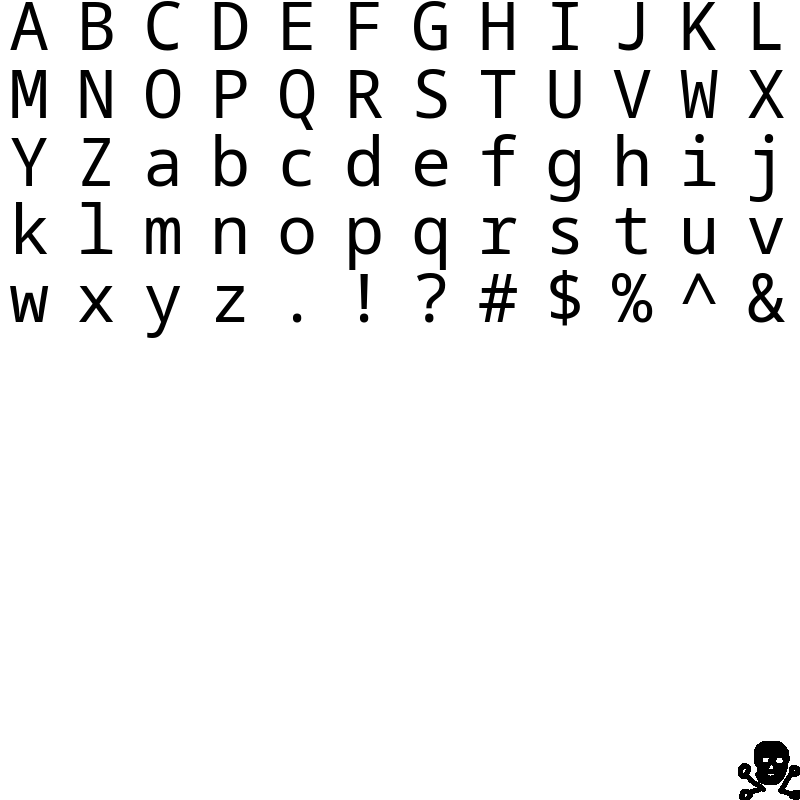
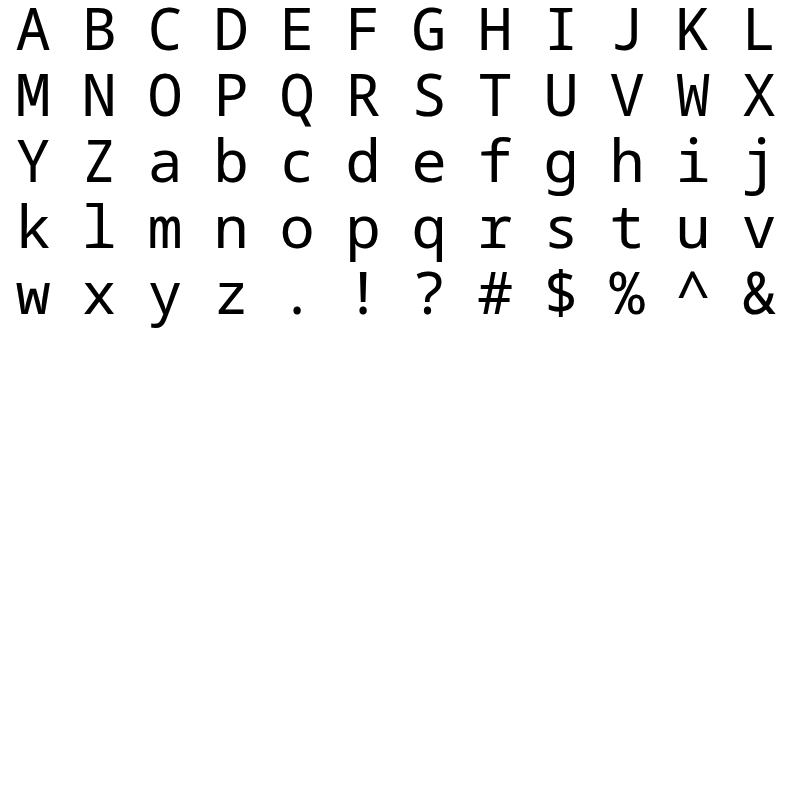
.

diff --git a/2d_game/rework/engine.js b/2d_game/rework/engine.js
@@ -15,6 +15,13 @@ export class Engine{
     atlasTextureBuffer
     atlasTexture;
     textTextures = [];
+    textPositions = [{
+        name: "HelloworldText",
+        position: [0,0],
+        text: "Hello world.",
+        // uniformdata contains data for all letters
+        uniformdata: []
+    },]
 
     rectcount = 0;
 
@@ -40,7 +47,7 @@ export class Engine{
     constructor(canvas){
         this.#canvas = canvas;
         this.#gl = this.#canvas.getContext("webgl2");
-        if(this.#gl == false) alert("Unable to make webgl context");
+        if(this.#gl == false) alert("Unable to make webgl2 context.");
     }
     async #GetFile(URL)
     {
@@ -131,11 +138,11 @@ export class Engine{
         }
     }
     // makes texture itself and binds to texture buffer
-    MakeTexture(){
-        this.tex = this.#gl.createTexture();
+    MakeTexture(x=512,y=512){
+        this.tex == null ? this.tex = this.#gl.createTexture() : {};
         this.#gl.bindTexture(this.#gl.TEXTURE_2D, this.tex);
         this.#gl.texParameteri ( this.#gl.TEXTURE_2D, this.#gl.TEXTURE_MAG_FILTER, this.#gl.NEAREST ) ;
-        this.#gl.texImage2D(this.#gl.TEXTURE_2D, 0, this.#gl.RGBA,1024, 256, 0, this.#gl.RGBA,this.#gl.UNSIGNED_BYTE,
+        this.#gl.texImage2D(this.#gl.TEXTURE_2D, 0, this.#gl.RGBA,x, y, 0, this.#gl.RGBA,this.#gl.UNSIGNED_BYTE,
             null/*new Uint8Array([255, 0, 0, 255,        0, 255, 0, 255,       0, 0, 255, 255,
                             255, 255, 0, 255,      0, 255, 255, 255,     255, 0, 255, 255,
                             128, 255, 0, 255,      255, 128, 0, 255,     0, 255, 128, 255
@@ -143,6 +150,7 @@ export class Engine{
         this.#gl.texParameteri(this.#gl.TEXTURE_2D, this.#gl.TEXTURE_MIN_FILTER, this.#gl.LINEAR);
         this.#gl.texParameteri(this.#gl.TEXTURE_2D, this.#gl.TEXTURE_WRAP_S, this.#gl.CLAMP_TO_EDGE);
         this.#gl.texParameteri(this.#gl.TEXTURE_2D, this.#gl.TEXTURE_WRAP_T, this.#gl.CLAMP_TO_EDGE);
+        this.#gl.bindTexture(this.#gl.TEXTURE_2D, null);
     }
 
     CreateBuffers()
@@ -239,24 +247,58 @@ export class Engine{
         ["\n","Down"]
     ])
     // temporarily just change current text letter
-    // hardcoded size/4, 4 is ratio of texture to not stretch letters
-    // QUESTION: why is singular letter more messed that string of letters?
-    AddText(name = "TextObject", letter = "a", size = 1/6){
+    SetText(x,y, letter = "a", size = 1){
         if(letter.length == 1)
         {
             let texindex = this.textToIndex.get(letter);
             if(texindex == undefined) texindex = [11,11];
 
+            this.MakeTexture(256,256);
             this.textData = [0,0, 0, 
                         ...texindex, 1, 
-                        size/4, size, 0];
+                        size, size, 0];
+            this.textPositions[0] = {
+                name: "Helloworld",
+                position: [x,y],
+                text: letter,
+                size: [256,256],
+                ratio: [1,1],
+                uniformdata: this.textData
+            }
             return;
         }
         else if(letter.length > 1)
         {
+            // Biggest line is width of the whole text, new lines is height of whole text.
+            const ParseData = {
+                newLines: 0,
+                biggestLine: 0,
+                currentLineSize: 0
+            }
+            for(let i = 0; i < letter.length; i++)
+            {
+                const curLetter = letter[i];
+                if(curLetter == "\n" || i == letter.length-1)
+                {
+                    ParseData.newLines += 1;
+                    letter.length == i ? ParseData.currentLineSize += 1 : {};
+                    if(ParseData.currentLineSize > ParseData.biggestLine)
+                        ParseData.biggestLine = ParseData.currentLineSize;
+                    ParseData.currentLineSize = 0;
+                    continue;
+                }
+                ParseData.currentLineSize += 1;
+            }
+        
             this.textData = [];
-            let x = -1+(1/6);
-            let y = -0.8;
+            let xLet = -1;
+            // for some reason if i set 0 with new lines the bottom part will half-disappepar,
+            // however if i set -0.5 it will work fine but without new lines, the text is slightly towards the top...
+            // similar thing occurs to X for some reason
+            let yLet = ParseData.newLines <= 1 ? 0 : -0.5;
+
+            const SizeTotal=[ParseData.biggestLine*256, ParseData.newLines*256]
+            this.MakeTexture(SizeTotal[0], SizeTotal[1]);
             for(let i = 0; i < letter.length; i++)
             {
                 let curLetter = this.textToIndex.get(letter[i]);
@@ -264,15 +306,23 @@ export class Engine{
                 // \n
                 if(curLetter == "Down")
                 {
-                    x = -1+(1/6);
-                    y += 0.4;
+                    xLet = -1;
+                    yLet += 1/(ParseData.newLines)*2;
                     continue;
                 }
-                this.textData.push(...[x,y,0,
+                this.textData.push(...[xLet,yLet,0,
                                     ...curLetter,1,
-                                    size/4,size,0
+                                    1/ParseData.biggestLine, 1/ParseData.newLines,0
                 ])
-                x += 0.05;
+                xLet += 1/ParseData.biggestLine*2;
+            }
+            this.textPositions[0] = {
+                name: "Helloworld",
+                position: [x,y],
+                text: letter,
+                size: [SizeTotal[0], SizeTotal[1]],
+                ratio: [ParseData.biggestLine, ParseData.newLines],
+                uniformdata: this.textData
             }
         }
     }
@@ -404,12 +454,13 @@ export class Engine{
         // create custom frame buffer and attach this.tex to it, and then bind default framebuffer instead.
         this.customframebuffer = this.#gl.createFramebuffer();
         this.#gl.bindFramebuffer(this.#gl.FRAMEBUFFER, this.customframebuffer);
+        // IMPORTANT: frambuffertexture applies texture on thix.tex
         this.#gl.framebufferTexture2D(this.#gl.FRAMEBUFFER, this.#gl.COLOR_ATTACHMENT0, this.#gl.TEXTURE_2D, this.tex, 0);
         //this.#gl.clearColor(0, 0, 1, 1); 
         //this.#gl.clear(this.#gl.COLOR_BUFFER_BIT | this.#gl.DEPTH_BUFFER_BIT);
         this.#gl.bindFramebuffer(this.#gl.FRAMEBUFFER, null);
-        this.#gl.enable(this.#gl.BLEND);
-        this.#gl.blendFunc(this.#gl.SRC_ALPHA, this.#gl.ONE_MINUS_SRC_ALPHA);
+        //this.#gl.enable(this.#gl.BLEND);
+        //this.#gl.blendFunc(this.#gl.SRC_ALPHA, this.#gl.ONE_MINUS_SRC_ALPHA);
     }
     Draw()
     {
@@ -417,18 +468,13 @@ export class Engine{
         // count in for camera and aspect ratio 
         this.#gl.useProgram(this.textShaderProgram);
         this.#gl.bindFramebuffer(this.#gl.FRAMEBUFFER, this.customframebuffer);
-        this.#gl.viewport(0,0,1024,256);
+        this.#gl.viewport(0,0,this.textPositions[0].size[0],this.textPositions[0].size[1]);
         this.#gl.bindTexture(this.#gl.TEXTURE_2D, this.atlasTextureBuffer);
-        // Fill with le transparency =)
+        // Fill with the transparency 
         this.#gl.clearColor(0.0, 0.0, 0.0, 0.0);
         this.#gl.clear(this.#gl.COLOR_BUFFER_BIT);
         this.#gl.uniformMatrix3fv(this.texposloc, false, this.textData);
         this.#gl.drawElementsInstanced(this.#gl.TRIANGLES, 6, this.#gl.UNSIGNED_SHORT, 0, this.textData.length/9);
-
-        //this.#gl.clearColor(0.0, 0.0, 0.0, 1.0);
-        //this.#gl.clear(this.#gl.COLOR_BUFFER_BIT);
-        //this.#gl.drawArrays(this.#gl.TRIANGLES, 0, 6);
-        //this.#gl.drawArraysInstanced(this.#gl.TRIANGLES, 0, 6, this.rectcount);
 
         // Use main shader program and write into main framebuffer
         this.#gl.useProgram(this.shaderProgram);
@@ -446,23 +492,15 @@ export class Engine{
         // render framebuffered texture
         this.#gl.bindTexture(this.#gl.TEXTURE_2D, this.tex);
         this.#gl.uniform1f(this.normalizedSpriteSize, 1);
-        this.#gl.uniformMatrix3fv(this.posloc, false, [0,-1,0,0,0,1,12,3,0]);
+        this.#gl.uniformMatrix3fv(this.posloc, false, [this.textPositions[0].position[0], this.textPositions[0].position[1], 0,
+                                                        0,0,1,
+                                                        this.textPositions[0].ratio[0],this.textPositions[0].ratio[1],0]);
         this.#gl.drawElementsInstanced(this.#gl.TRIANGLES, 6, this.#gl.UNSIGNED_SHORT, 0, 1);
 
         this.#gl.bindTexture(this.#gl.TEXTURE_2D, null);
         // This manual way of handling textures and shaderprograms on top of that isn't cool
     }
 
-    // use AlphabetTex.png texture to type text
-    // TODO: 
-    WrieText(text,x=0,y=0,scale=64, maxX=this.#gl.width)
-    {
-        // output text rectangle size
-        const RectXSize = maxX;
-        const RectYSize = Math.ceil(text.length*scale/maxX);
-
-        // New texture 
-    }
     move_camera(vector2)
     {
         this.cameraPosition[0] += vector2.x;

diff --git a/2d_game/rework/index.js b/2d_game/rework/index.js
@@ -44,27 +44,29 @@ document.MoveCamera = (vector2) => {
 
 let pointerid = 0;
 
-engine.AddText("Text my", "Alorem ipsum something something\ni forgot the text and\nhonestly dont care about\nit as much so i didnt\neven try to find the text onlin\ne", 1/6);
+engine.SetText(0,0, "ab\ncd", 1);
 const beginning = "A".charCodeAt();
 document.onmousedown = (e)=>{
 
-    engine.AddText("Text my", String.fromCharCode(pointerid+beginning), 1/6);
+    engine.SetText(0,0, String.fromCharCode(pointerid+beginning), 1);
     pointerid++;
 
-    engine.Draw();
+    shouldDraw = true;
 
 };
 
 let touchControls = false;
 let touchOrigin = [0,0];
 let touchDragged = [0,0];
+let touchStartTime = 0;
 document.ontouchstart = (e) => {
     const PointCentre = FindPointCentre(e.touches[0].pageX, e.touches[0].pageY, false);
     touchControls = true;
     touchOrigin = PointCentre;
+    touchStartTime = new Date().getTime();
 }
 document.ontouchmove = (e) =>{
-    if(touchControls)
+    if(touchControls && new Date().getTime()-touchStartTime > 100)
     {
         const pointpos = FindPointCentre(e.touches[0].pageX, e.touches[0].pageY, false);
         touchDragged =  [pointpos[0] - touchOrigin[0], pointpos[1] - touchOrigin[1]];
@@ -74,11 +76,13 @@ document.ontouchmove = (e) =>{
             touchDragged[0] = touchDragged[0]/magnitude;
             touchDragged[1] = touchDragged[1]/magnitude;
         }
+        engine.ChangeData(0, 2, Math.atan2(pointpos[1] - touchOrigin[1], pointpos[0] - touchOrigin[0])*57);
     }
 }
 document.ontouchend = (e) =>{
     touchControls = false;
     touchDragged = [0,0];
+    if(new Date().getTime()-touchStartTime < 100) KeysPressed.e = 1;
 }
 
 let KeysPressed = {"w": 0, "a": 0, "s": 0, "d": 0, "e": 0, "esc": 0};
@@ -138,16 +142,6 @@ function Update()
         }
     }
 
-    // move all e's down each frame. bad code. should instead reform code to return position of object instead
-    // instead of literally just looping through whole array.
-    for(let i = 0; i < engine.Scene.GameObjects.length; i++)
-    {
-        if(engine.Scene.GameObjects[i][0] == "e")
-        {
-            engine.ChangeData(i, 1, engine.Scene.GameObjects[i][1][1] -= 0.01);
-            shouldDraw = true;
-        }
-    }
 
     // temporary code for finding colissions, for now finds collisions between player and all objects in scene and deletes by default
     // and in other cases does interaction or remove on interaction key.
@@ -159,7 +153,7 @@ function Update()
                 if(engine.Scene.GameObjects[i] == engine.Scene.GameObjects[myNPC])
                 {
                     if(KeysPressed.e) {
-                        engine.AddText("text", "Hello im npc. Welcome to this\nterrible world. Please\nKill es. I hate them.\nPress e to kill es. dont take too\nlong they kill on long phys interaction..")
+                        engine.SetText(5,1.5, "Hello i'm NPC.\nNew line test\nThe text is weird.\nShould probably\nrewrite whole thing")
                         shouldDraw = true;
                     }
                     continue;
@@ -209,7 +203,6 @@ function Update()
 }
 Update();
 
-// if user uses touch, probably dont do that
 document.onmousemove = () => {
     engine.ChangeData(0, 2, wtf({x: engine.uniformData[0], y: engine.uniformData[1]}));
     shouldDraw = true;
